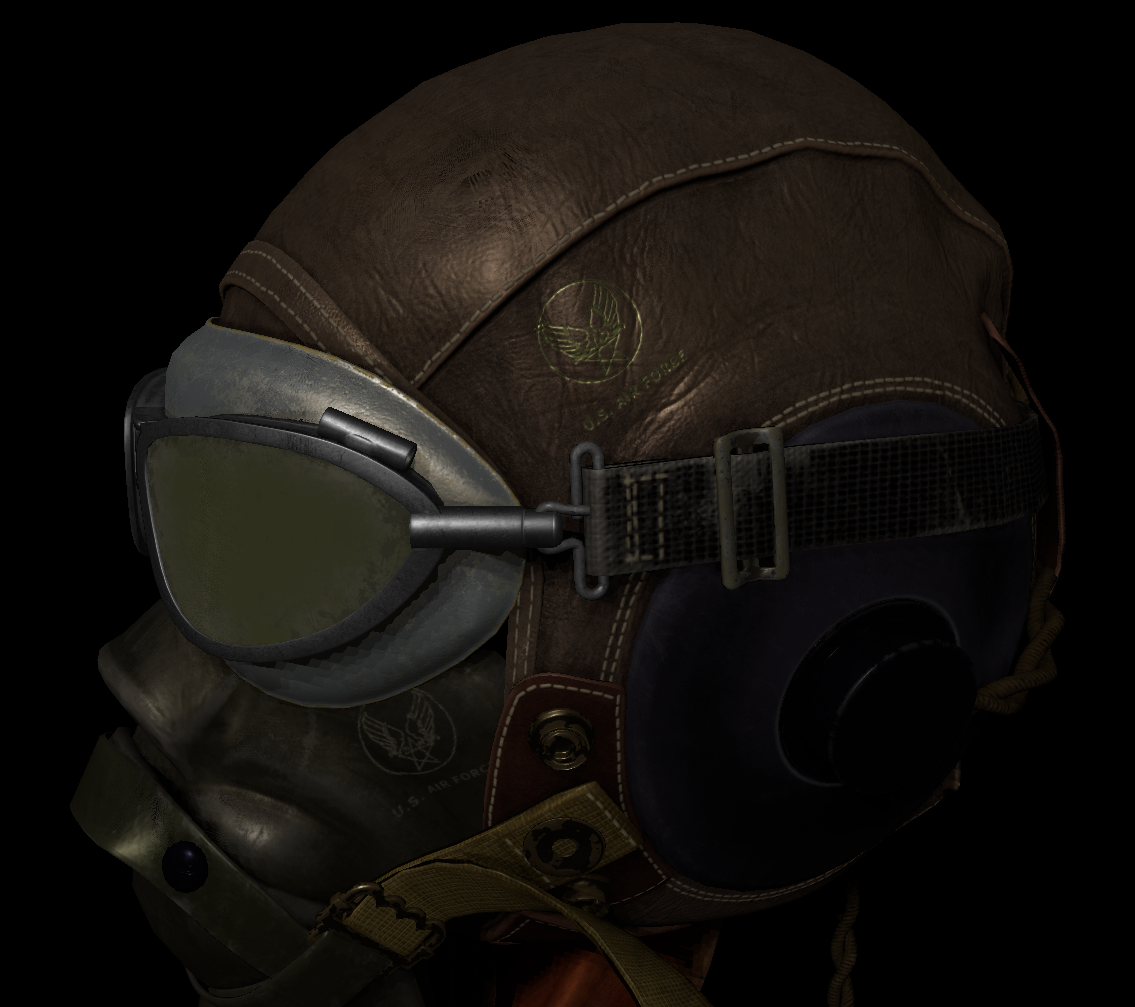
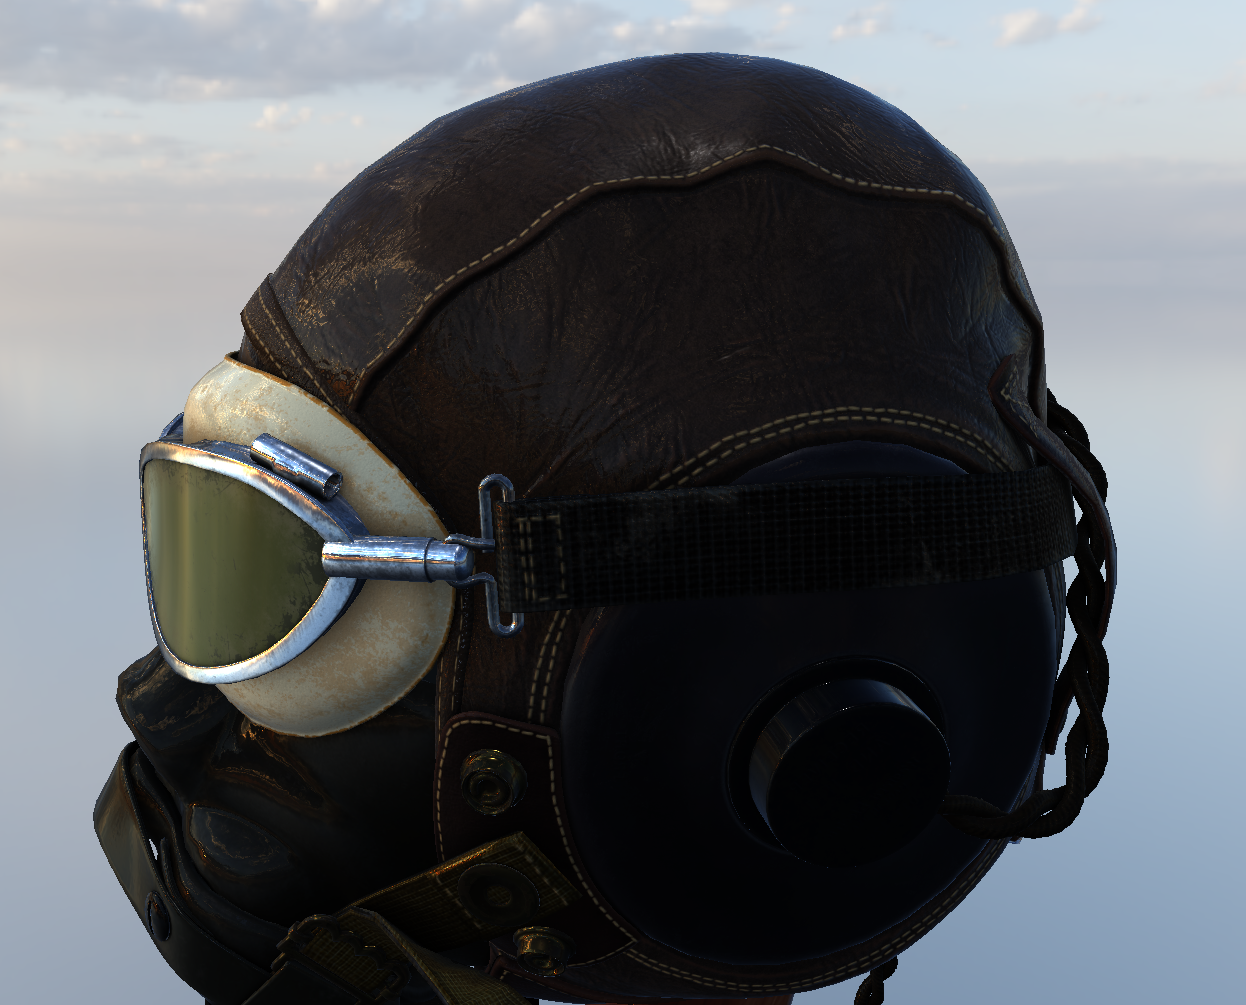
exposure can no be set

diff --git a/HammockEngine/Engine/Systems/HmckUserInterface.cpp b/HammockEngine/Engine/Systems/HmckUserInterface.cpp
@@ -98,10 +98,19 @@ void Hmck::UserInterface::showEntityInspector(std::unique_ptr<Scene>& scene)
 	ImGui::SetNextWindowPos({ 10, 130 }, ImGuiCond_Once, { 0,0 });
 	ImGui::SetNextWindowSizeConstraints({ 300, 200 }, ImVec2(static_cast<float>(window.getExtent().width), 500));
 	beginWindow("Entity Inspector", (bool*)false, ImGuiWindowFlags_AlwaysAutoResize);
+	ImGui::Text("Scene props");
 	ImGui::Text("Inspect all entities in the scene", window_flags);
-
 	inspectEntity(scene->getRoot(),scene);
+	endWindow();
+}
 
+void Hmck::UserInterface::showColorSettings(float* exposure, float* gamma, float * whitePoint)
+{
+	const ImGuiWindowFlags window_flags = ImGuiWindowFlags_AlwaysAutoResize;
+	beginWindow("Color settings", (bool*)false, ImGuiWindowFlags_AlwaysAutoResize);
+	ImGui::DragFloat("Exposure", exposure, 0.01f, 0.01f);
+	ImGui::DragFloat("Gamma", gamma, 0.01f, 0.01f);
+	ImGui::DragFloat("White point", whitePoint, 0.01f, 0.01f);
 	endWindow();
 }
 
@@ -211,27 +220,29 @@ void Hmck::UserInterface::setupStyle()
 	style.WindowTitleAlign = { .5f, .5f };
 
 	// colors
-	style.Colors[ImGuiCol_TitleBg] = ImVec4(15 / 255.0f, 15 / 255.0f, 15 / 255.0f, 146 / 240.0f);
-	style.Colors[ImGuiCol_FrameBg] = ImVec4(60 / 255.0f, 60 / 255.0f, 60 / 255.0f, 170 / 255.0f);
-	style.Colors[ImGuiCol_FrameBgHovered] = ImVec4(60 / 255.0f, 60 / 255.0f, 60 / 255.0f, 255 / 255.0f);
-	style.Colors[ImGuiCol_FrameBgActive] = ImVec4(60 / 255.0f, 60 / 255.0f, 60 / 255.0f, 255 / 255.0f);
+	style.Colors[ImGuiCol_TitleBg] = ImVec4(241 / 255.0f, 135 / 255.0f, 1 / 255.0f, 170 / 255.0f);
+	style.Colors[ImGuiCol_TitleBgActive] = ImVec4(241 / 255.0f, 135 / 255.0f, 1 / 255.0f, 255 / 255.0f);
+	style.Colors[ImGuiCol_TitleBgCollapsed] = ImVec4(241 / 255.0f, 135 / 255.0f, 1 / 255.0f, 170 / 255.0f);
+	style.Colors[ImGuiCol_FrameBg] = ImVec4(48 / 255.0f, 48 / 255.0f, 54 / 255.0f, 255 / 255.0f);
+	style.Colors[ImGuiCol_FrameBgHovered] = ImVec4(48 / 255.0f, 48 / 255.0f, 54 / 255.0f, 255 / 255.0f);
+	style.Colors[ImGuiCol_FrameBgActive] = ImVec4(48 / 255.0f, 48 / 255.0f, 54 / 255.0f, 255 / 255.0f);
 	style.Colors[ImGuiCol_MenuBarBg] = ImVec4(33 / 255.0f, 33 / 255.0f, 33 / 255.0f, 50 / 255.0f);
 	style.Colors[ImGuiCol_CheckMark] = ImVec4(200 / 255.0f, 200 / 255.0f, 200 / 255.0f, 255 / 255.0f);
 	style.Colors[ImGuiCol_SliderGrab] = ImVec4(200 / 255.0f, 200 / 255.0f, 200 / 255.0f, 255 / 255.0f);
 	style.Colors[ImGuiCol_SliderGrabActive] = ImVec4(255 / 255.0f, 255 / 255.0f, 255 / 255.0f, 255 / 255.0f);
-	style.Colors[ImGuiCol_Header] = ImVec4(60 / 255.0f, 60 / 255.0f, 60 / 255.0f, 79 / 255.0f);
-	style.Colors[ImGuiCol_HeaderHovered] = ImVec4(60 / 255.0f, 60 / 255.0f, 60 / 255.0f, 170 / 255.0f);
-	style.Colors[ImGuiCol_HeaderActive] = ImVec4(60 / 255.0f, 60 / 255.0f, 60 / 255.0f, 170 / 255.0f);
+	style.Colors[ImGuiCol_Header] = ImVec4(60 / 255.0f, 60 / 255.0f, 60 / 255.0f, 170 / 255.0f);
+	style.Colors[ImGuiCol_HeaderHovered] = ImVec4(241 / 255.0f, 135 / 255.0f, 1 / 255.0f, 255 / 255.0f);
+	style.Colors[ImGuiCol_HeaderActive] = ImVec4(241 / 255.0f, 135 / 255.0f, 1 / 255.0f, 255 / 255.0f);
 	style.Colors[ImGuiCol_Separator] = ImVec4(60 / 255.0f, 60 / 255.0f, 60 / 255.0f, 170 / 255.0f);
 	style.Colors[ImGuiCol_ResizeGrip] = ImVec4(60 / 255.0f, 60 / 255.0f, 60 / 255.0f, 79 / 255.0f);
 	style.Colors[ImGuiCol_ResizeGripHovered] = ImVec4(60 / 255.0f, 60 / 255.0f, 60 / 255.0f, 170 / 255.0f);
 	style.Colors[ImGuiCol_ResizeGripActive] = ImVec4(60 / 255.0f, 60 / 255.0f, 60 / 255.0f, 170 / 255.0f);
 	style.Colors[ImGuiCol_Tab] = ImVec4(60 / 255.0f, 60 / 255.0f, 60 / 255.0f, 79 / 255.0f);
 	style.Colors[ImGuiCol_TabHovered] = ImVec4(60 / 255.0f, 60 / 255.0f, 60 / 255.0f, 170 / 255.0f);
-	style.Colors[ImGuiCol_TabActive] = ImVec4(60 / 255.0f, 60 / 255.0f, 60 / 255.0f, 170 / 255.0f);
+	style.Colors[ImGuiCol_TabActive] = ImVec4(241 / 255.0f, 135 / 255.0f, 1 / 255.0f, 255 / 255.0f);
 	style.Colors[ImGuiCol_Button] = ImVec4(80 / 255.0f, 80 / 255.0f, 80 / 255.0f, 170 / 255.0f);
-	style.Colors[ImGuiCol_ButtonHovered] = ImVec4(100 / 255.0f, 100 / 255.0f, 100 / 255.0f, 170 / 255.0f);
-	style.Colors[ImGuiCol_ButtonActive] = ImVec4(255 / 255.0f, 255 / 255.0f, 255 / 255.0f, 170 / 255.0f);
+	style.Colors[ImGuiCol_ButtonHovered] = ImVec4(241 / 255.0f, 135 / 255.0f, 1 / 255.0f, 255 / 255.0f);
+	style.Colors[ImGuiCol_ButtonActive] = ImVec4(241 / 255.0f, 135 / 255.0f, 1 / 255.0f, 255 / 255.0f);
 }
 
 VkCommandBuffer Hmck::UserInterface::beginSingleTimeCommands()

diff --git a/HammockEngine/Apps/PBRApp.cpp b/HammockEngine/Apps/PBRApp.cpp
@@ -26,7 +26,13 @@ void Hmck::PBRApp::run()
 
 	std::shared_ptr<OmniLight> light = std::make_shared<OmniLight>();
 	light->transform.translation = { 0.0f, 2.0f, 0.0f };
-	//scene->add(light);
+	scene->add(light);
+
+	FrameBufferData data{
+		.projection = scene->getActiveCamera()->getProjection(),
+		.view = scene->getActiveCamera()->getView(),
+		.inverseView = scene->getActiveCamera()->getInverseView()
+	};
 
 	auto currentTime = std::chrono::high_resolution_clock::now();
 	while (!window.shouldClose())
@@ -81,11 +87,10 @@ void Hmck::PBRApp::run()
 				0, nullptr);
 
 
-			FrameBufferData data{
-				.projection = scene->getActiveCamera()->getProjection(),
-				.view = scene->getActiveCamera()->getView(),
-				.inverseView = scene->getActiveCamera()->getInverseView()
-			};
+			data.projection = scene->getActiveCamera()->getProjection();
+			data.view = scene->getActiveCamera()->getView();
+			data.inverseView = scene->getActiveCamera()->getInverseView();
+
 			memoryManager.getBuffer(frameBuffers[frameIndex])->writeToBuffer(&data);
 
 			memoryManager.bindDescriptorSet(
@@ -129,6 +134,7 @@ void Hmck::PBRApp::run()
 				ui.showDebugStats(scene->getActiveCamera());
 				ui.showWindowControls();
 				ui.showEntityInspector(scene);
+				ui.showColorSettings(&data.exposure, &data.gamma, &data.whitePoint);
 				ui.endUserInterface(commandBuffer);
 			}
 
@@ -148,19 +154,20 @@ void Hmck::PBRApp::load()
 		.name = "Physically based rendering demo",});
 
 	EnvironmentLoader loader{ device, memoryManager};
-	loader.loadHDR("../../Resources/env/ibl/precomp/lebombo/lebombo_prefiltered_map.hdr", scene->environment->environmentSphere, VK_FORMAT_R32G32B32A32_SFLOAT);
-	//loader.loadHDR("../../Resources/env/ibl/studio.hdr", scene->environment->environmentSphere, VK_FORMAT_R32G32B32A32_SFLOAT);
+	//loader.loadHDR("../../Resources/env/ibl/precomp/lebombo/lebombo_prefiltered_map.hdr", scene->environment->environmentSphere, VK_FORMAT_R32G32B32A32_SFLOAT);
+	//loader.loadHDR("../../Resources/env/ibl/room.hdr", scene->environment->environmentSphere, VK_FORMAT_R32G32B32A32_SFLOAT);
+	loader.loadHDR("../../Resources/env/ibl/sunset.hdr", scene->environment->environmentSphere, VK_FORMAT_R32G32B32A32_SFLOAT);
 	scene->environment->generatePrefilteredSphere(device, memoryManager);
 	scene->environment->generateIrradianceSphere(device, memoryManager);
 	scene->environment->generateBRDFLUT(device, memoryManager);
 
 	GltfLoader gltfloader{ device, memoryManager, scene };
 	//gltfloader.load(std::string(MODELS_DIR) + "sponza/sponza_lights.glb");
-	gltfloader.load(std::string(MODELS_DIR) + "helmet/DamagedHelmet.glb");
+	//gltfloader.load(std::string(MODELS_DIR) + "helmet/DamagedHelmet.glb");
 	//gltfloader.load(std::string(MODELS_DIR) + "SunTemple/SunTemple.glb");
 	//gltfloader.load(std::string(MODELS_DIR) + "Bistro/BistroExterior.glb");
-	//gltfloader.load(std::string(MODELS_DIR) + "helmet/helmet.glb");
-	//gltfloader.load(std::string(MODELS_DIR) + "Sphere/Sphere.glb");
+	gltfloader.load(std::string(MODELS_DIR) + "helmet/helmet.glb");
+	//gltfloader.load(std::string(MODELS_DIR) + "BrassCookware/brass_vase_03_4k.gltf");
 	//gltfloader.load(std::string(MODELS_DIR) + "Sphere/LambertSphere.glb");
 
 	vertexBuffer = memoryManager.createVertexBuffer({

diff --git a/HammockEngine/Engine/Systems/HmckUserInterface.h b/HammockEngine/Engine/Systems/HmckUserInterface.h
@@ -37,6 +37,7 @@ namespace Hmck
 		void showWindowControls();
 		void showEntityComponents(std::shared_ptr<Entity>& entity, bool* close = (bool*)0);
 		void showEntityInspector(std::unique_ptr<Scene>& scene);
+		void showColorSettings(float* exposure, float* gamma, float * whitePoint);
 		void showLog();
 
 		// forwarding events to ImGUI

diff --git a/HammockEngine/Apps/PBRApp.h b/HammockEngine/Apps/PBRApp.h
@@ -57,6 +57,9 @@ namespace Hmck
 			glm::mat4 projection{ 1.f };
 			glm::mat4 view{ 1.f };
 			glm::mat4 inverseView{ 1.f };
+			float exposure = 4.5f;
+			float gamma = 2.2f;
+			float whitePoint = 11.2f;
 		};
 
 		struct EntityBufferData

diff --git a/README.md b/README.md
@@ -34,9 +34,8 @@ The following NuGet packages are used:
 
 
 ![glTF 2.0](https://raw.githubusercontent.com/elliahu/HammockEngine/master/Img/IBL.png)
+![PBR](https://raw.githubusercontent.com/elliahu/HammockEngine/master/Img/pbr2.png)
+![Sponza](https://raw.githubusercontent.com/elliahu/HammockEngine/master/Img/sponza_pbr.png)
 ![Cloud](https://raw.githubusercontent.com/elliahu/HammockEngine/master/Img/cloud.png)
-![Smoke](https://raw.githubusercontent.com/elliahu/HammockEngine/master/Img/smoke.png)
-![Sponza4](https://raw.githubusercontent.com/elliahu/HammockEngine/master/Img/sponza4.png)
-![SSAO](https://raw.githubusercontent.com/elliahu/HammockEngine/master/Img/ssao.png)
 
 
